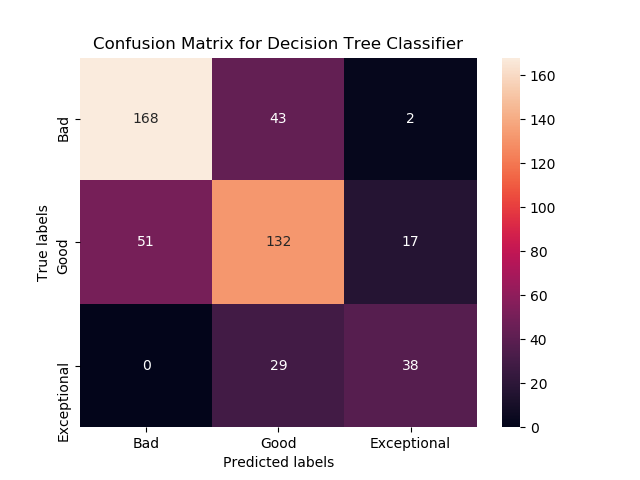
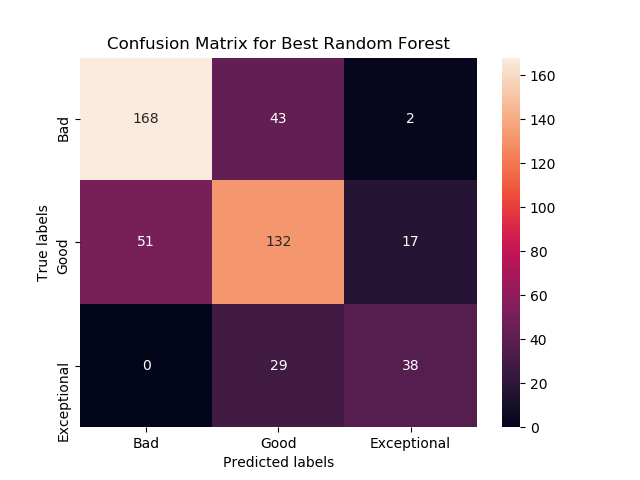
Changed the parameters for Bad, Good and Exceptional. Completely new matrices.

Changed region(s): [[0.1562, 0.0625, 0.7188, 0.125]]

diff --git a/Models.py b/Models.py
@@ -70,7 +70,7 @@ gbc = GradientBoostingClassifier(random_state=42)
 gbc.fit(X_train, y_train)
 gbc_predict = gbc.predict(X_test)
 
-#Evaluate the X test set for Decision Tree Classifier:
+#Evaluate the X test set for Gradient Boosting:
 gbc_matrix = confusion_matrix(y_test, gbc_predict)
 gbc_acc = accuracy_score(y_test, gbc_predict)
 print('Gradient Boosting Classifier Accuracy:')
@@ -80,7 +80,7 @@ ax.remove()
 ax= plt.subplot()
 ax2 = sns.heatmap(gbc_matrix, annot=True, fmt='g', ax = ax);
 ax2.set_xlabel('Predicted labels');ax.set_ylabel('True labels');
-ax2.set_title('Confusion Matrix for Decision Tree Classifier');
+ax2.set_title('Confusion Matrix for Gradient Boosting');
 ax2.xaxis.set_ticklabels(['Bad', 'Good','Exceptional']); ax.yaxis.set_ticklabels(['Bad', 'Good','Exceptional']);
 fig2 = ax2.get_figure()
 fig2.savefig('GradientBoostingClassifierConfusionMatrix.png')
@@ -120,7 +120,7 @@ ax.remove()
 ax= plt.subplot()
 ax4 = sns.heatmap(ada_matrix, annot=True, fmt='g', ax = ax);
 ax4.set_xlabel('Predicted labels');ax.set_ylabel('True labels');
-ax4.set_title('Confusion Matrix for Decision Tree Classifier');
+ax4.set_title('Confusion Matrix for AdaBoost');
 ax4.xaxis.set_ticklabels(['Bad', 'Good','Exceptional']); ax.yaxis.set_ticklabels(['Bad', 'Good','Exceptional']);
 fig4 = ax4.get_figure()
 fig4.savefig('AdaBoostConfusionMatrix.png')
@@ -140,7 +140,7 @@ ax.remove()
 ax= plt.subplot()
 ax5 = sns.heatmap(nb_matrix, annot=True, fmt='g', ax = ax);
 ax5.set_xlabel('Predicted labels');ax.set_ylabel('True labels');
-ax5.set_title('Confusion Matrix for Decision Tree Classifier');
+ax5.set_title('Confusion Matrix for NaiveBayes');
 ax5.xaxis.set_ticklabels(['Bad', 'Good','Exceptional']); ax.yaxis.set_ticklabels(['Bad', 'Good','Exceptional']);
 fig5 = ax5.get_figure()
 fig5.savefig('NaiveBayesConfusionMatrix.png')
@@ -181,7 +181,7 @@ ax.remove()
 ax= plt.subplot()
 ax7 = sns.heatmap(svc_matrix, annot=True, fmt='g', ax = ax);
 ax7.set_xlabel('Predicted labels');ax.set_ylabel('True labels');
-ax7.set_title('Confusion Matrix for Decision Tree Classifier');
+ax7.set_title('Confusion Matrix for SVC');
 ax7.xaxis.set_ticklabels(['Bad', 'Good','Exceptional']); ax.yaxis.set_ticklabels(['Bad', 'Good','Exceptional']);
 fig7 = ax7.get_figure()
 fig7.savefig('SVCConfusionMatrix.png')
@@ -202,17 +202,17 @@ ax= plt.subplot()
 ax8 = sns.heatmap(svcl_matrix, annot=True, fmt='g', ax = ax); #annot=True to annotate cells
 # labels, title and ticks
 ax8.set_xlabel('Predicted labels');ax.set_ylabel('True labels');
-ax8.set_title('Confusion Matrix for Decision Tree Classifier');
+ax8.set_title('Confusion Matrix for Linear SVC');
 ax8.xaxis.set_ticklabels(['Bad', 'Good','Exceptional']); ax.yaxis.set_ticklabels(['Bad', 'Good','Exceptional']);
 fig8 = ax8.get_figure()
 fig8.savefig('LinearSVCConfusionMatrix.png')
 
-#Create NuSVC and Train:
+#Create K Neighbors and Train:
 kn = KNeighborsClassifier()
 kn.fit(X_train, y_train)
 kn_predict = kn.predict(X_test)
 
-#Evaluate the X test set for SVC:
+#Evaluate the X test set for K Neighbors:
 kn_matrix = confusion_matrix(y_test, kn_predict)
 kn_acc = accuracy_score(y_test, kn_predict)
 print('K Neighbors Accuracy:')
@@ -222,7 +222,7 @@ ax.remove()
 ax= plt.subplot()
 ax9 = sns.heatmap(kn_matrix, annot=True, fmt='g', ax = ax);
 ax9.set_xlabel('Predicted labels');ax.set_ylabel('True labels');
-ax9.set_title('Confusion Matrix for Decision Tree Classifier');
+ax9.set_title('Confusion Matrix for K Neighbors');
 ax9.xaxis.set_ticklabels(['Bad', 'Good','Exceptional']); ax.yaxis.set_ticklabels(['Bad', 'Good','Exceptional']);
 fig9 = ax9.get_figure()
 fig9.savefig('KNeighborsConfusionMatrix.png')
@@ -280,7 +280,7 @@ ax.remove()
 ax= plt.subplot()
 ax10 = sns.heatmap(rfbest_matrix, annot=True, fmt='g', ax = ax);
 ax10.set_xlabel('Predicted labels');ax.set_ylabel('True labels');
-ax10.set_title('Confusion Matrix for Decision Tree Classifier');
+ax10.set_title('Confusion Matrix for Best Random Forest');
 ax10.xaxis.set_ticklabels(['Bad', 'Good','Exceptional']); ax.yaxis.set_ticklabels(['Bad', 'Good','Exceptional']);
 fig10 = ax10.get_figure()
 fig10.savefig('BestForestConfusionMatrix.png')
